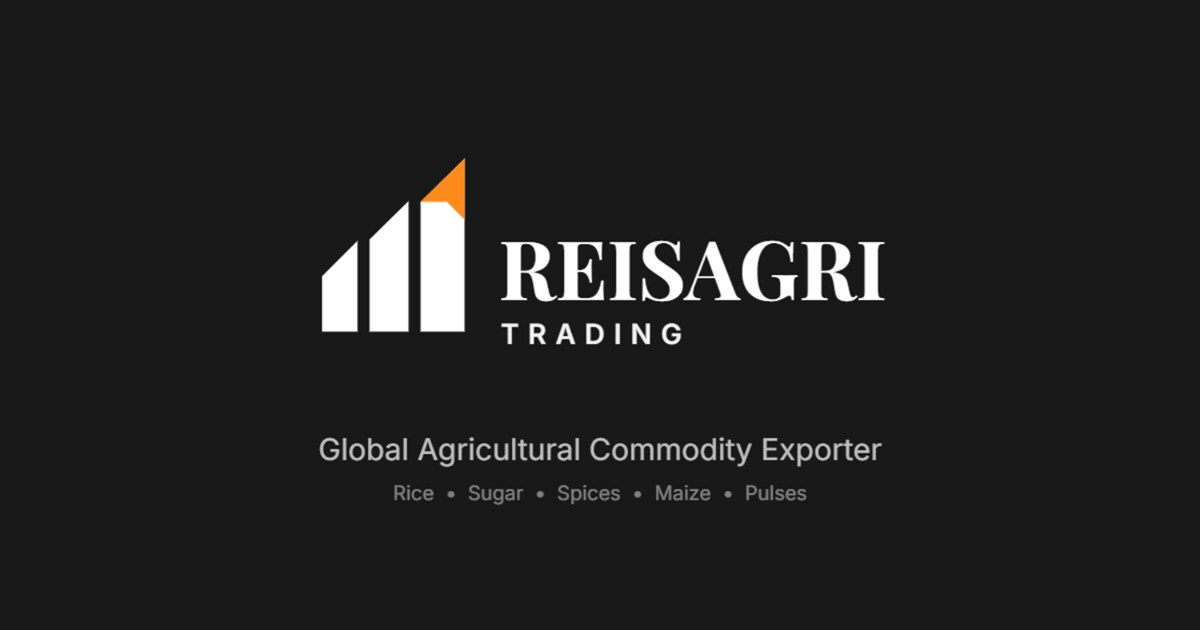
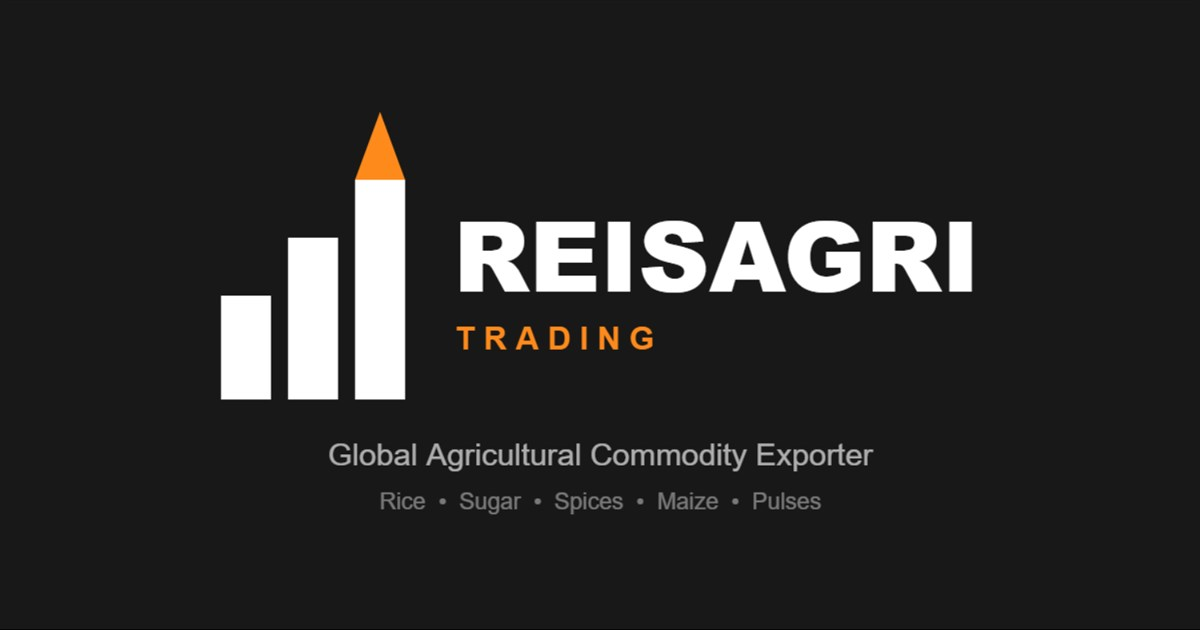
fix(seo): redesign og-image for legibility and add og:image:type
WhatsApp crops og:image to a small square thumbnail and recompresses
it heavily, so the previous thin serif wordmark became illegible.
Rebuilt the image with a bolder, larger sans-serif lockup that holds
up under aggressive downscaling, and added the missing og:image:type
meta tag across all pages.

Changed region(s): [[0.185, 0.181, 0.8325, 0.6333], [0.2467, 0.6937, 0.74, 0.8143]]

diff --git a/pages/about.html b/pages/about.html
@@ -102,6 +102,10 @@
     content="630">
 
   <meta
+    property="og:image:type"
+    content="image/jpeg">
+
+  <meta
     property="og:locale"
     content="en_US">
 

diff --git a/index.html b/index.html
@@ -85,6 +85,10 @@
     content="630">
 
   <meta
+    property="og:image:type"
+    content="image/jpeg">
+
+  <meta
     property="og:locale"
     content="en_US">
 

diff --git a/pages/contact.html b/pages/contact.html
@@ -87,6 +87,10 @@
     content="630">
 
   <meta
+    property="og:image:type"
+    content="image/jpeg">
+
+  <meta
     property="og:locale"
     content="en_US">
 

diff --git a/pages/disclaimer.html b/pages/disclaimer.html
@@ -87,6 +87,10 @@
     content="630">
 
   <meta
+    property="og:image:type"
+    content="image/jpeg">
+
+  <meta
     property="og:locale"
     content="en_US">
 

diff --git a/pages/privacy-policy.html b/pages/privacy-policy.html
@@ -87,6 +87,10 @@
     content="630">
 
   <meta
+    property="og:image:type"
+    content="image/jpeg">
+
+  <meta
     property="og:locale"
     content="en_US">
 

diff --git a/pages/products.html b/pages/products.html
@@ -87,6 +87,10 @@
     content="630">
 
   <meta
+    property="og:image:type"
+    content="image/jpeg">
+
+  <meta
     property="og:locale"
     content="en_US">
 

diff --git a/pages/terms-and-conditions.html b/pages/terms-and-conditions.html
@@ -87,6 +87,10 @@
     content="630">
 
   <meta
+    property="og:image:type"
+    content="image/jpeg">
+
+  <meta
     property="og:locale"
     content="en_US">
 
